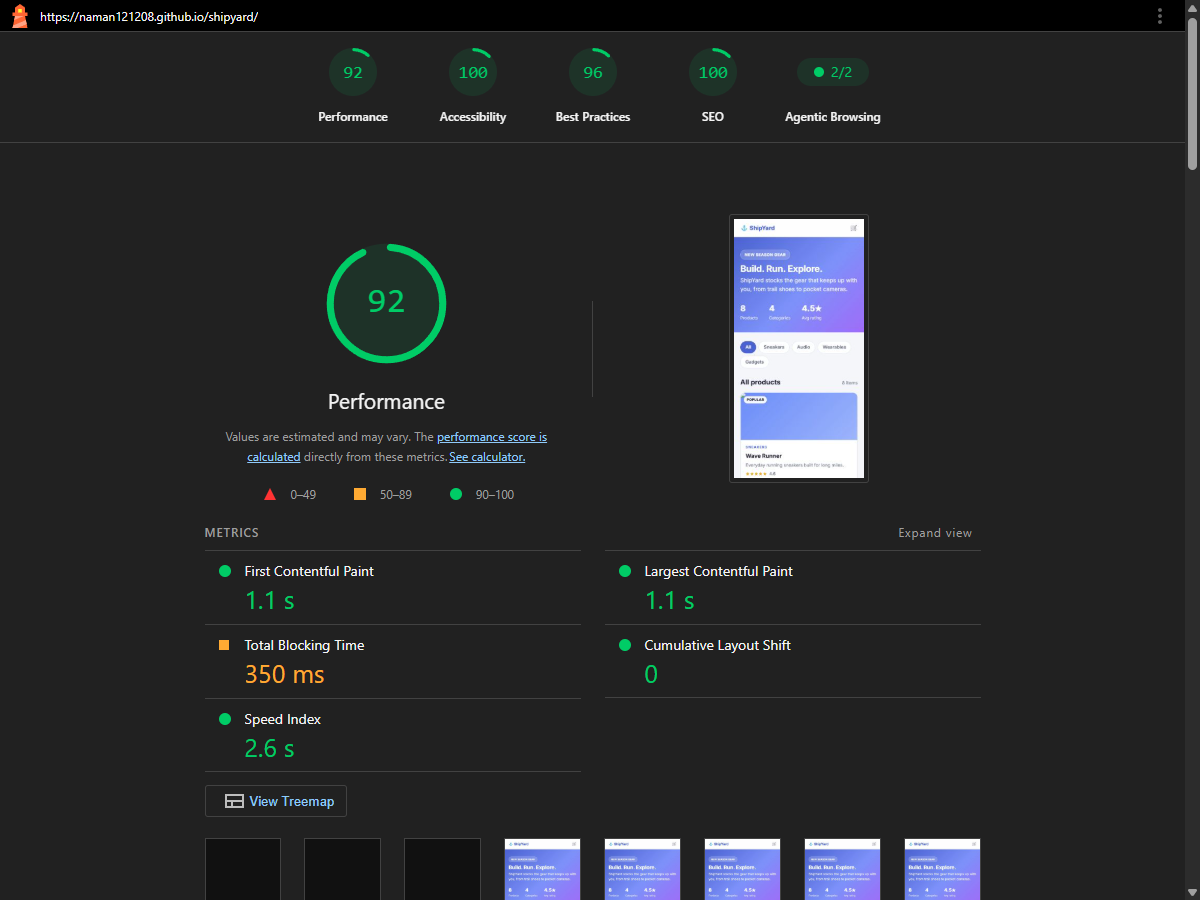
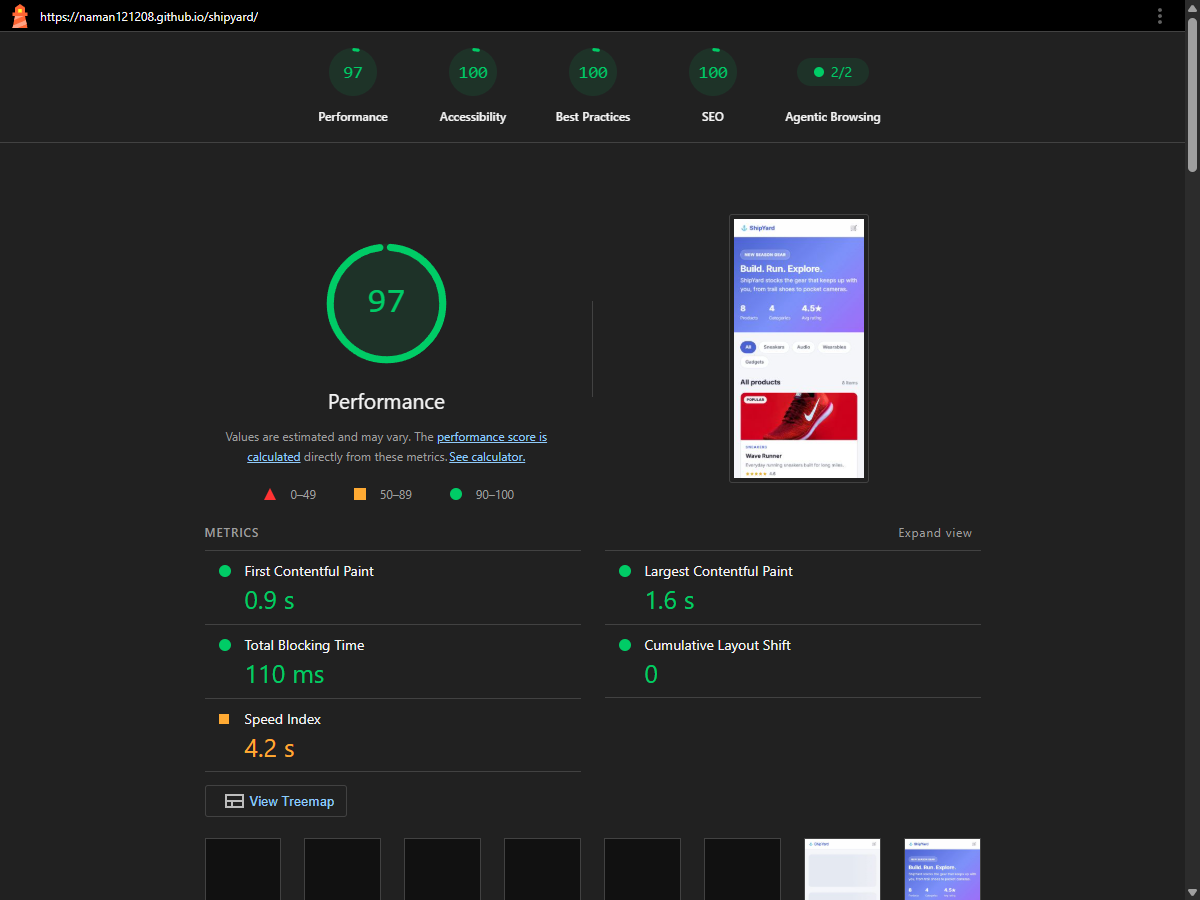
docs: update Lighthouse score to 97 and refresh report screenshot

diff --git a/README.md b/README.md
@@ -10,17 +10,17 @@ A high-performance product-catalog storefront built from scratch with **Next.js 
 
 | Category | Score |
 | :--- | :--- |
-| **Performance** | **92 / 100** ⚡ |
+| **Performance** | **97 / 100** ⚡ |
 | **Accessibility** | **100 / 100** 🎯 |
-| **Best Practices** | **96 / 100** 🛡 |
+| **Best Practices** | **100 / 100** 🛡 |
 | **SEO** | **100 / 100** 🔍 |
 
 ### Core Web Vitals
-- **Largest Contentful Paint (LCP):** 1.1 s
-- **First Contentful Paint (FCP):** 1.1 s
+- **First Contentful Paint (FCP):** 0.9 s
+- **Largest Contentful Paint (LCP):** 1.6 s
 - **Cumulative Layout Shift (CLS):** 0
-- **Total Blocking Time (TBT):** 350 ms
-- **Speed Index:** 2.6 s
+- **Total Blocking Time (TBT):** 110 ms
+- **Speed Index:** 4.2 s
 
 ![Lighthouse Performance Report](./docs/lighthouse.png)
 
